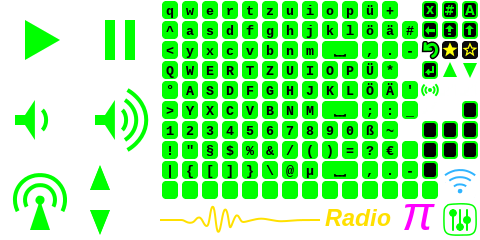
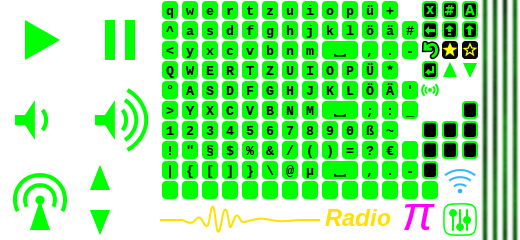
add a screensaver

diff --git a/RadioPi/view/radio_view.py b/RadioPi/view/radio_view.py
@@ -1,5 +1,9 @@
 from ui.view import ImageComponent, UiEvent, \
-    UiComponent, ButtonComponent, TextlabelComponent, ListViewComponent
+    UiComponent, ButtonComponent, TextlabelComponent, ListViewComponent,\
+    ScreensaverComponent
+from controller.threads import InterruptableThread
+import time
+from random import randint
 
 
 class KeyComponent(ButtonComponent):
@@ -40,6 +44,11 @@ class Images:
     LABEL_WLAN_2 = 45
     LABEL_WLAN_3 = 46
 
+    LABEL_SCR_SAVER_0 = 47
+    LABEL_SCR_SAVER_1 = 48
+    LABEL_SCR_SAVER_2 = 49
+    LABEL_SCR_SAVER_3 = 50
+    
     def __init__(self, font, font_button_active, font_button_pushed, font_button_inactive):
         self.font = font
         self.font_button_active = font_button_active
@@ -54,6 +63,11 @@ class Images:
             Images.LABEL_WLAN_1: font.get_image(23, 4, 1, 1),
             Images.LABEL_WLAN_2: font.get_image(21, 5, 1, 1),
             Images.LABEL_WLAN_3: font.get_image(22, 5, 1, 1),
+
+            Images.LABEL_SCR_SAVER_0: font.get_image(24,   0, 0.5, 12),
+            Images.LABEL_SCR_SAVER_1: font.get_image(24.5, 0, 0.5, 12),
+            Images.LABEL_SCR_SAVER_2: font.get_image(25,   0, 0.5, 12),
+            Images.LABEL_SCR_SAVER_3: font.get_image(25.5, 0, 0.5, 12),
 
             Images.FRAME_TOP_LEFT: font.get_image(6, 8, 1, 1),
             Images.FRAME_TOP_RIGHT: font.get_image(7, 8, 1, 1),
@@ -675,3 +689,70 @@ class RadioSetupView(UiComponent):
     def default_select_handler(self, item):
         print ("default selection handler: %s" % item)
         return True
+
+class ScreensaverView (ScreensaverComponent):
+    def __init__(self, screen, images):
+        ScreensaverComponent.__init__(self, self.animate)
+        self.screen = screen
+        self.images = images
+
+        self.line1 = ImageComponent(self.images.label(Images.LABEL_SCR_SAVER_0))
+        self.line1.hide()
+        self.add(self.line1)
+
+        self.line2 = ImageComponent(self.images.label(Images.LABEL_SCR_SAVER_0))
+        self.line2.hide()
+        self.add(self.line2)
+
+        self.line_img = Images.LABEL_SCR_SAVER_0
+        self.delay = 100
+        
+    def animate(self):
+        if self.delay > 0:
+            self.delay = self.delay - 1
+            if self.delay == 0:
+                self.animation_mode = randint(0,2)
+                if self.animation_mode == 0:
+                    self.dx = randint(2,5)
+                    self.line_x = 0
+                    self.line1.show()
+                    self.line2.show()
+                elif self.animation_mode == 1:
+                    self.dx = randint(2,5)
+                    self.line_x = 0
+                    self.line1.show()
+                else:
+                    self.dx = -randint(2,5)
+                    self.line_x = 310
+                    self.line1.show()
+        else:
+            self.line_img = self.line_img + 1
+            if self.line_img > Images.LABEL_SCR_SAVER_3:
+                self.line_img = Images.LABEL_SCR_SAVER_0
+            self.line1.set_image(self.images.label(self.line_img))
+            self.line2.set_image(self.images.label(self.line_img))
+
+            self.line_x = self.line_x + self.dx
+
+            if self.animation_mode == 0: # two lines
+                if self.line_x >= 150:
+                    self.dx = -self.dx
+                elif self.line_x <=0:
+                    self.line1.hide()
+                    self.line2.hide()
+                    self.delay = randint(400, 600)
+                self.line1.set_pos(self.line_x, 0)
+                self.line2.set_pos(310-self.line_x, 0)
+            elif self.animation_mode == 1:
+                if self.line_x >= 310:
+                    self.line1.hide()
+                    self.line2.hide()
+                    self.delay = randint(400, 600)
+                self.line1.set_pos(self.line_x, 0)
+            elif self.animation_mode == 2:
+                if self.line_x <= 0:
+                    self.line1.hide()
+                    self.line2.hide()
+                    self.delay = randint(400, 600)
+                self.line1.set_pos(self.line_x, 0)
+            self.set_changed()

diff --git a/RadioPi/ui/view.py b/RadioPi/ui/view.py
@@ -2,6 +2,8 @@ import pygame
 
 from events.events import UiEvent
 import threading
+from controller.threads import InterruptableThread
+import time
 
 class UiComponent:
 
@@ -75,6 +77,8 @@ class UiComponent:
         return self.changed
     
     def set_changed(self):
+        if not self.visible:
+            return
         self.lock.acquire()
         self.changed = True
         if self.get_parent():
@@ -155,15 +159,33 @@ class UiComponent:
 class UI:
 
     def __init__(self, screen, w, h, background):
-        self.root = UiComponent()
-        self.root.set_size(w, h)
-        self.root.set_pos(0, 0) 
+        self.root_user = UiComponent()
+        self.root_user.set_size(w, h)
+        self.root_user.set_pos(0, 0)
+        self.root = self.root_user
+        self.screensaver = None 
+        self.last_change = time.time()
+        self.timeout = 10
         self.screen = screen
         self.background = background
-        
+    
+    def set_screensaver(self, screensaver):
+        self.screensaver = screensaver
+        self.screensaver.set_mouse_click_handler(self.stop_screensaver)
+
+    def stop_screensaver(self):
+        self.root = self.root_user
+        self.root.set_changed()
+                
     def refresh(self):
+        t = time.time()
+        if self.screensaver and self.root != self.screensaver and t > self.last_change + self.timeout:
+            self.root = self.screensaver
+            self.root.set_changed()
+            self.screensaver.start()
         if not self.root.has_changed():
             return
+        self.last_change = t
         self.root.clear_changed()
         self.screen.fill(self.background)
         self.root.draw(self.screen, (0, 0))
@@ -173,7 +195,7 @@ class UI:
         self.root.on_event(event, (0, 0))
         
     def get_root(self):
-        return self.root
+        return self.root_user
 
 class ImageComponent(UiComponent):
 
@@ -515,3 +537,33 @@ class ListViewComponent(TextlabelComponent):
             i = i + 1
             row = row + 1
             y = y + self.line_height
+
+class ScreensaverComponent (UiComponent):
+    def __init__(self, do_animation):
+        UiComponent.__init__(self)
+        self.do_animation = do_animation
+        self.mouse_click_handler = self.default_mouse_click_handler
+        self.set_event_listener(UiEvent.MOUSE_CLICK_EVENT, self.handle_mouse_click)
+        self.animation_thread = None
+        
+    def set_mouse_click_handler(self, mouse_click_handler):
+        self.mouse_click_handler = mouse_click_handler
+        
+    def start(self):
+        if self.animation_thread:
+            self.animation_thread.interrupt()
+        self.animation_thread = InterruptableThread().with_runnable(self.animation)
+        self.animation_thread.start()
+        
+    def handle_mouse_click(self, event, offset):
+        self.animation_thread.interrupt()
+        self.mouse_click_handler()
+        return True
+
+    def default_mouse_click_handler(self):
+        print("default Screensaver CLICK")
+
+    def animation(self):
+        while not self.animation_thread.is_interrupted():
+            self.do_animation()
+            time.sleep(0.05)

diff --git a/RadioPi/controller/controller.py b/RadioPi/controller/controller.py
@@ -2,6 +2,7 @@ from configparser import ConfigParser
 from threading import Thread
 from view.radio_view import KeyboardComponent
 from time import sleep
+from controller.threads import InterruptableThread, TimerThread
 
 
 class Controller:
@@ -267,49 +268,7 @@ class Controller:
 
 # -------- util --
 
-# -------- threads --
-
-class InterruptableThread(Thread):
-
-    def __init__(self):
-        Thread.__init__(self)
-        self.runnable = lambda: False
-        self.interrupted = False
-    
-    def interrupt(self):
-        self.interrupted = True
-        
-    def is_interrupted(self):
-        return self.interrupted
-    
-    def with_runnable(self, runnable):
-        self.runnable = runnable
-        return self
-
-    def get_runnable(self):
-        return self.runnable
-
-    def run(self):
-        self.runnable()
-
-
-class TimerThread(InterruptableThread):
-
-    def __init__(self, delay):
-        InterruptableThread.__init__(self)
-        self.delay = delay
-        self.running_thread = None
-
-    def run(self):
-        while not self.is_interrupted():
-            if self.running_thread:
-                self.running_thread.interrupt()                
-            self.running_thread = InterruptableThread().with_runnable(self.get_runnable())
-            self.running_thread.start()
-            sleep(self.delay)
-        if self.running_thread:
-            self.running_thread.interrupt()
-
+# -------- threads -
 class PlayStationThread(Thread):
 
     def __init__(self, radio_player, radio_service, station, play_view):

diff --git a/RadioPi/controller/threads.py b/RadioPi/controller/threads.py
@@ -1,0 +1,43 @@
+from threading import Thread
+from time import sleep
+
+class InterruptableThread(Thread):
+
+    def __init__(self):
+        Thread.__init__(self)
+        self.runnable = lambda: False
+        self.interrupted = False
+    
+    def interrupt(self):
+        self.interrupted = True
+        
+    def is_interrupted(self):
+        return self.interrupted
+    
+    def with_runnable(self, runnable):
+        self.runnable = runnable
+        return self
+
+    def get_runnable(self):
+        return self.runnable
+
+    def run(self):
+        self.runnable()
+
+
+class TimerThread(InterruptableThread):
+
+    def __init__(self, delay):
+        InterruptableThread.__init__(self)
+        self.delay = delay
+        self.running_thread = None
+
+    def run(self):
+        while not self.is_interrupted():
+            if self.running_thread:
+                self.running_thread.interrupt()                
+            self.running_thread = InterruptableThread().with_runnable(self.get_runnable())
+            self.running_thread.start()
+            sleep(self.delay)
+        if self.running_thread:
+            self.running_thread.interrupt()

diff --git a/RadioPi/radio_pi_desktop.py b/RadioPi/radio_pi_desktop.py
@@ -9,7 +9,7 @@ from radiostation.radioservice import RadioService
 from ui.mouse_device import MouseDevice
 from ui.view import ImageFont, UI, FrameBuilder
 from view.radio_view import Images, RadioPlayView, RadioSelectView,\
-    RadioSetupView
+    RadioSetupView, ScreensaverView
 from audio.player import Player
 from network.network import NetworkService
 
@@ -64,9 +64,14 @@ select_view.set_size(320, 240)
 setup_view = RadioSetupView(screen, images, framebuilder, fonts, sizes, colors)
 setup_view.set_size(320, 240)
 
+screensaver_view = ScreensaverView(screen, images)
+screensaver_view.set_size(320, 240)
+
 ui.get_root().add(play_view)
 ui.get_root().add(select_view)
 ui.get_root().add(setup_view)
+ui.set_screensaver(screensaver_view)
+
 controller = Controller(play_view, select_view, setup_view, radio_service, audio_player, network_service)
 
 ui.get_root().show()

diff --git a/RadioPi/radio_pi.py b/RadioPi/radio_pi.py
@@ -11,7 +11,7 @@ from radiostation.radioservice import RadioService
 from ui.touch_device import TouchDevice
 from ui.view import ImageFont, UI, FrameBuilder
 from view.radio_view import Images, RadioPlayView, RadioSelectView,\
-    RadioSetupView
+    RadioSetupView, ScreensaverView
 
 
 #from ui.mouse_device import MouseDevice
@@ -64,9 +64,13 @@ select_view.set_size(320, 240)
 setup_view = RadioSetupView(screen, images, framebuilder, fonts, sizes, colors)
 setup_view.set_size(320, 240)
 
+screensaver_view = ScreensaverView(screen, images)
+screensaver_view.set_size(320, 240)
+
 ui.get_root().add(play_view)
 ui.get_root().add(select_view)
 ui.get_root().add(setup_view)
+ui.set_screensaver(screensaver_view)
 
 controller = Controller(play_view, select_view, setup_view, radio_service, audio_player, network_service)
 
